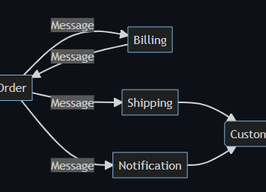
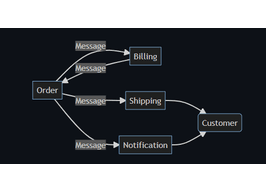
fix: Update thumbnail generation to use 'contain' fit and set background color

diff --git a/thumbnails/thumbnails-generator.ts b/thumbnails/thumbnails-generator.ts
@@ -52,8 +52,8 @@ async function createThumbnail(sourcePath: string, targetPath: string): Promise<
       .resize({
         width: THUMBNAIL_WIDTH,
         height: THUMBNAIL_HEIGHT,
-        fit: 'cover',
-        position: 'center',
+        fit: 'contain',
+        background: { r: 255, g: 255, b: 255, alpha: 1 },
       })
       .png({ quality: THUMBNAIL_QUALITY })
       .toFile(targetPath);
